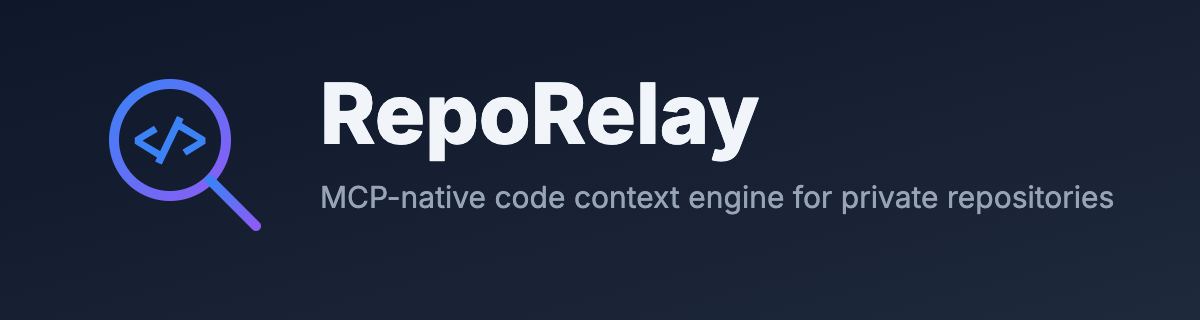
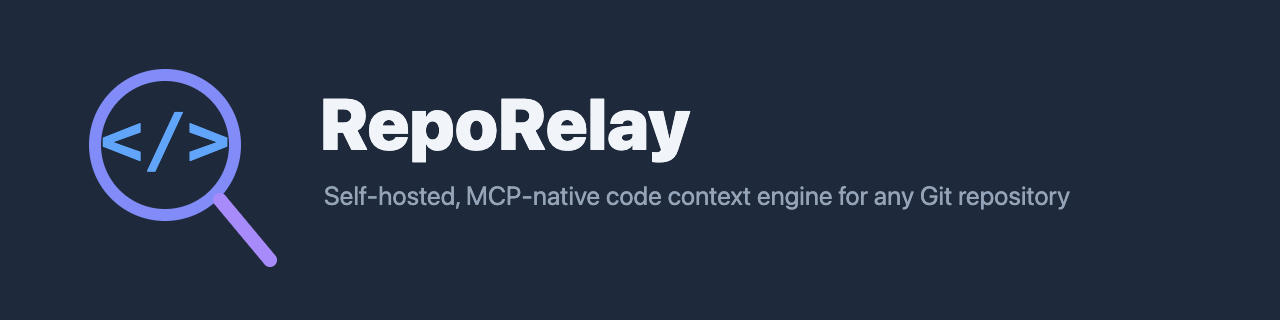
update documentation to clarify support for public and private Git repositories

Changed region(s): [[0.2467, 0.25, 0.6475, 0.5312], [0.0617, 0.2188, 0.2158, 0.8438], [0.2467, 0.5625, 0.925, 0.6875]]

diff --git a/README.md b/README.md
@@ -2,7 +2,7 @@
   <picture>
     <source media="(prefers-color-scheme: dark)" srcset="assets/banner-dark.png">
     <source media="(prefers-color-scheme: light)" srcset="assets/banner-light.png">
-    <img alt="RepoRelay — MCP-native code context engine for private repositories" src="assets/banner-dark.png" width="600">
+    <img alt="RepoRelay — Self-hosted, MCP-native code context engine" src="assets/banner-dark.png" width="600">
   </picture>
 </p>
 
@@ -22,9 +22,9 @@
 
 ---
 
-**RepoRelay** is a self-hosted code context engine that makes your private repositories deeply searchable and contextually available to any LLM. It indexes your Git repos — code, docs, tests, examples — and exposes the knowledge through the [Model Context Protocol (MCP)](https://modelcontextprotocol.io).
+**RepoRelay** is a self-hosted code context engine that makes any Git repository — public or private — deeply searchable and contextually available to any LLM. It indexes your repos — code, docs, tests, examples — and exposes the knowledge through the [Model Context Protocol (MCP)](https://modelcontextprotocol.io).
 
-Point your MCP-capable client (Claude Desktop, Cursor, Windsurf) at RepoRelay, and your LLM instantly gains deep understanding of your entire codebase. No code leaves your infrastructure.
+Point your MCP-capable client (Claude Desktop, Cursor, Windsurf) at RepoRelay, and your LLM instantly gains deep understanding of your entire codebase. Because it's self-hosted, even private repositories stay on your infrastructure.
 
 ---
 

diff --git a/docs/index.md b/docs/index.md
@@ -4,7 +4,7 @@ layout: home
 hero:
   name: RepoRelay
   text: Code context for LLMs
-  tagline: Self-hosted, MCP-native code context engine. Index your private repos. Keep everything local.
+  tagline: Self-hosted, MCP-native code context engine. Index any Git repo. Keep everything local.
   actions:
     - theme: brand
       text: Get Started

diff --git a/AGENTS.md b/AGENTS.md
@@ -1,6 +1,6 @@
 # AGENTS.md — RepoRelay
 
-Self-hosted, MCP-native code context engine for private repositories.
+Self-hosted, MCP-native code context engine for any Git repository — public or private.
 TypeScript (strict ESM), Fastify, Drizzle ORM, tree-sitter, pg-boss, pgvector/ParadeDB.
 
 ## Build / Dev / Test Commands

diff --git a/docs/guide/getting-started.md b/docs/guide/getting-started.md
@@ -11,7 +11,7 @@
 ## 1. Clone and install
 
 ```bash
-git clone https://github.com/your-org/reporelay.git
+git clone https://github.com/chwoerz/reporelay.git
 cd reporelay
 pnpm install
 ```
